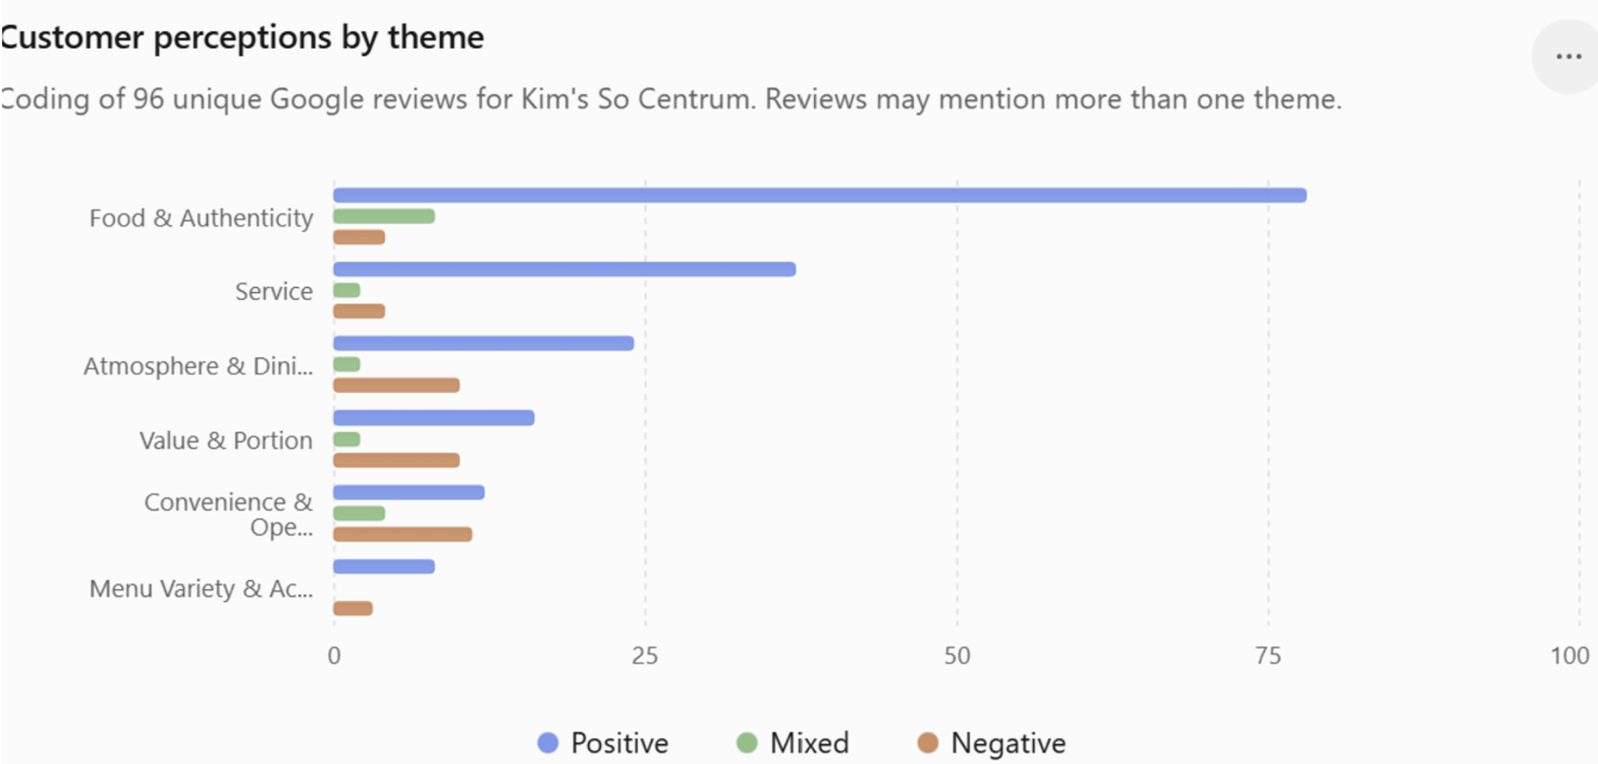
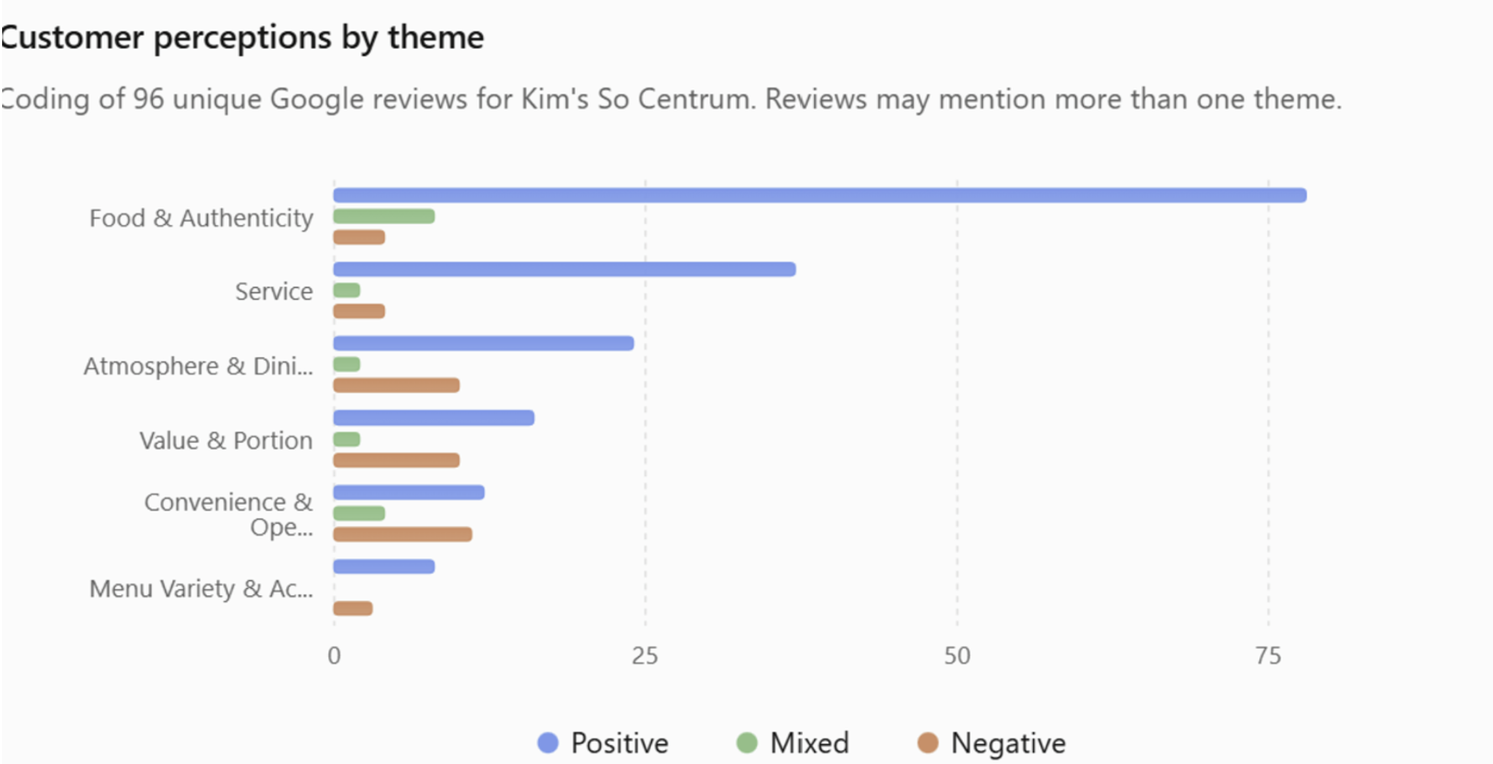
update: changes some features

diff --git a/src/data/content.js b/src/data/content.js
@@ -4,6 +4,12 @@ import cidKiosk from '../assets/cid-kiosk.png'
 import cidTeam from '../assets/cid-team-stand.png'
 import cidLogo from '../assets/cid-logo.png'
 import tiktokProfile from '../assets/tiktok-profile.jpg'
+import tiktokOverview from '../assets/tiktok-overview-365.jpg'
+import tiktokViewers from '../assets/tiktok-viewers.jpg'
+import tiktok60 from '../assets/tiktok-60-days.jpg'
+import tiktokTopPosts from '../assets/tiktok-top-posts.jpg'
+import cidCollaborations from '../assets/cid-collaborations.webp'
+import cidOpenDay from '../assets/cid-open-day.webp'
 import etWood from '../assets/et-wood.jpg'
 import etFire from '../assets/et-fire.jpg'
 import etEarth from '../assets/et-earth.jpg'
@@ -12,7 +18,9 @@ import etMetal from '../assets/et-metal.jpg'
 import etSketch from '../assets/et-sketch.jpg'
 import etPoster from '../assets/et-poster.jpg'
 import etMoodboard from '../assets/et-moodboard.jpg'
-import etResearch from '../assets/et-research.webp'
+import etFocusGroup from '../assets/et-focus-group.webp'
+import etAffinity from '../assets/et-affinity-map.webp'
+import etDesk from '../assets/et-desk-observation.webp'
 import vsnl1 from '../assets/vsnl-1.jpg'
 import vsnl2 from '../assets/vsnl-2.jpg'
 import vsnl3 from '../assets/vsnl-3.jpg'
@@ -36,7 +44,6 @@ export const profile = {
   lastName: 'Phan',
   status: 'Open to marketing & communication internships',
   portrait,
-  tag: { title: 'Digital marketing', text: '& brand storytelling' },
   email: 'phantaingan250511@gmail.com',
   phone: '+31 686 147 455',
   phoneRaw: '+31686147455',
@@ -73,7 +80,6 @@ export const about = {
     roles: ['Marketing', 'Communication', 'Social media', 'Content', 'Brand'],
     where: 'Anywhere in the Netherlands; hybrid or on-site',
     strengths: 'Research-led thinking, clear messaging, hands-on content work',
-    culture: 'Comfortable in international teams, working across Vietnamese and Dutch contexts',
   },
 }
 
@@ -96,7 +102,32 @@ export const cases = [
       { n: '3+ yrs', l: 'of ongoing, remote collaboration' },
     ],
     visual: [
-      { type: 'phone', src: tiktokProfile, alt: "Screenshot of the pet shop's TikTok profile with 6,825 followers and 499K likes" },
+      { type: 'phone', src: tiktokOverview, alt: 'TikTok Studio key metrics for Sep 30, 2025 – Sep 29, 2026: 810.9K post views, 11K profile views, 37.8K likes, 722 comments and 24.4K shares' },
+    ],
+    extra: [
+      {
+        type: 'metrics',
+        title: 'One year of results',
+        period: 'Sep 2025 – Sep 2026',
+        items: [
+          { n: '810.9K', l: 'post views' },
+          { n: '700.9K', l: 'total viewers' },
+          { n: '475.2K', l: 'new viewers' },
+          { n: '37.8K', l: 'likes' },
+          { n: '24.4K', l: 'shares' },
+        ],
+      },
+      {
+        type: 'screens',
+        title: 'Behind the numbers',
+        text: 'Most reach comes from the For You feed, and a recent spike shows how quickly the right story can travel: post views grew 744.8% over the last 60 days.',
+        images: [
+          { src: tiktokProfile, alt: "The pet shop's TikTok profile with 6,825 followers and 499K likes", caption: 'Channel profile · 6,825+ followers' },
+          { src: tiktokViewers, alt: 'Viewer insights: 700.9K total viewers, 475.2K new viewers; 66% female, 33% male', caption: 'Audience · 66% female viewers' },
+          { src: tiktok60, alt: 'Last 60 days: 227.9K post views, up 744.8%; 84.2% of traffic from the For You feed', caption: 'Last 60 days · +744.8% post views' },
+          { src: tiktokTopPosts, alt: 'Top posts by views over the last year, led by a post with 187K views', caption: 'Top post · 187K views' },
+        ],
+      },
     ],
   },
   {
@@ -126,6 +157,18 @@ export const cases = [
           { src: cidTeam, alt: 'The FutureFlow team at the Beyond the Blueprint stand with campaign posters and merchandise', variant: 'wide' },
           { src: cidKiosk, alt: 'Concept visual: an interactive CID information kiosk with a district map', variant: 'sq' },
           { src: cidLogo, alt: 'Beyond the Blueprint campaign logo by FutureFlow', variant: 'sq logo-fig' },
+        ],
+      },
+    ],
+    extra: [
+      {
+        type: 'figures',
+        title: 'Campaign touchpoints',
+        text: 'Beyond the Blueprint brings CID to life where people meet it: an open day invitation for residents and a collaboration moment that connects partners around the district.',
+        layout: 'cid',
+        images: [
+          { src: cidOpenDay, alt: 'Concept poster: CID Open Day at the Central Library, with a register-now QR code', caption: 'CID Open Day poster', className: 'contain white' },
+          { src: cidCollaborations, alt: 'Concept visual: partners gathered around a CID district model at a partner collaboration summit', caption: 'CID Collaborations' },
         ],
       },
     ],
@@ -161,10 +204,12 @@ export const cases = [
       {
         type: 'figures',
         title: 'From research to insight',
-        text: 'Consumer interviews, a focus group and on-site observation of tea shops fed into affinity mapping and a customer journey, from awareness and checking reviews to trying the drink and final thoughts.',
-        layout: 'single',
+        text: 'Desk research into boba culture and the European bubble tea market, plus observation of tea shops, set the context. A focus group and consumer interviews followed, and affinity mapping turned what we heard into themes for the persona and customer journey.',
+        layout: 'et-research',
         images: [
-          { src: etResearch, alt: 'Research collage: affinity-mapping sticky notes, observation photos of tea shops, the customer journey stages and the focus group session', caption: 'Affinity mapping, field observation, customer journey and focus group' },
+          { src: etDesk, alt: 'Desk research on boba culture and the European bubble tea market, alongside a Miro board of tea shop observation photos and notes', caption: 'Desk research & field observation' },
+          { src: etFocusGroup, alt: 'Focus group session with participants around a table', caption: 'Focus group · 10 participants' },
+          { src: etAffinity, alt: 'Wall of colour-coded sticky notes from affinity mapping', caption: 'Affinity mapping' },
         ],
       },
       {
@@ -174,9 +219,9 @@ export const cases = [
         items: [
           { name: 'Wood', src: etWood, notes: 'Schisandra berry · Green sencha · Lemongrass · Matcha' },
           { name: 'Fire', src: etFire, notes: 'Rose petal · Strawberry · Holy basil · Chai · Hibiscus' },
-          { name: 'Earth', src: etEarth },
+          { name: 'Earth', src: etEarth, notes: 'Oolong · Brown sugar · Mocha · Hojicha · Rooibos · Chamomile' },
           { name: 'Water', src: etWater, notes: 'Black sesame · Black tea · Black soy · Sea salt · Pu-erh' },
-          { name: 'Metal', src: etMetal },
+          { name: 'Metal', src: etMetal, notes: 'White tea · Cold brew · Earl Grey · Jasmine' },
         ],
       },
       {
@@ -196,12 +241,12 @@ export const cases = [
     kicker: 'Third project',
     meta: ['HR Committee Member · 2025–present', 'Vietnamese Student Association in the Netherlands'],
     title: 'VSNL: HR Committee & Career Fair',
-    sub: 'Coordination, scheduling and on-site event support',
+    sub: 'Coordination, scheduling and participant communication',
     brief: [
-      { k: 'Role', v: 'As part of the HR Committee, I support internal coordination and student activities, and work with the team on-site to help events run smoothly.' },
-      { k: 'Career Fair', v: 'As HR sub-lead, I coordinated around 25 participant time slots, prepared online forms, managed confirmation emails and supported on-site coordination.' },
-      { k: 'Takeaway', v: 'Keeping participant information and schedules organised', emphasis: true, after: ' while adapting to changes during a live event.' },
-      { k: 'Contributed', chips: ['HR support', 'Scheduling & coordination', 'Online forms', 'Email communication', 'On-site event support'] },
+      { k: 'Role', v: 'As part of the HR Committee, I support internal coordination and student activities within the association.' },
+      { k: 'Career Fair', v: 'As HR sub-lead for the online Career Fair, I coordinated around 25 participant time slots, prepared online forms and managed confirmation emails.' },
+      { k: 'Takeaway', v: 'Organising people, time and information behind the scenes,', emphasis: true, after: ' and keeping communication clear and consistent so every participant knew exactly when and where to join.' },
+      { k: 'Contributed', chips: ['HR support', 'Scheduling & coordination', 'Online forms', 'Email communication'] },
     ],
     stats: [
       { n: '~25', l: 'participant time slots coordinated' },
@@ -300,7 +345,7 @@ export const experience = [
   {
     when: '2025 – present',
     title: 'Vietnamese Student Association in the Netherlands — HR Committee',
-    text: 'Support internal coordination and student activities. As HR sub-lead for the Career Fair, coordinated around 25 participant time slots, prepared online forms, managed confirmation emails and supported on-site coordination.',
+    text: 'Support internal coordination and student activities. As HR sub-lead for the online Career Fair, coordinated around 25 participant time slots, prepared online forms and managed confirmation emails.',
   },
   {
     when: 'Feb 2025 – Jun 2025',
@@ -320,7 +365,7 @@ export const skills = [
   { icon: 'search', title: 'Research', items: ['Desk research', 'Interviews & surveys', 'Audience analysis', 'Competitor research', 'Review analysis', 'Keyword & search analysis'] },
   { icon: 'lines', title: 'Strategy & communication', items: ['Communication strategy', 'Key messaging', 'Concept development', 'Storytelling'] },
   { icon: 'phone', title: 'Digital & content', items: ['Content publishing', 'Content scheduling', 'Performance monitoring', 'Basic digital marketing'] },
-  { icon: 'tool', title: 'Tools', items: ['Microsoft Word', 'PowerPoint', 'Excel', 'Canva', 'Google Forms', 'Google Analytics', 'Ahrefs'] },
+  { icon: 'tool', title: 'Tools', items: ['Microsoft Word', 'PowerPoint', 'Excel', 'Canva', 'CapCut', 'Google Forms'] },
   { icon: 'globe', title: 'Languages', items: ['Vietnamese', 'English'] },
 ]
 

diff --git a/src/index.css b/src/index.css
@@ -359,3 +359,49 @@ footer .wrap{display:flex;flex-wrap:wrap;justify-content:space-between;gap:8px;p
   .reveal{opacity:1;transform:none;transition:none}
   .gallery img,.element-row img,.figures img,.cert-card img,.phone{transition:none}
 }
+
+/* TikTok: one-year metrics band */
+.metrics{position:relative;overflow:hidden;isolation:isolate;background:var(--oxblood);color:var(--on-accent);border-radius:24px;padding:clamp(22px,3vw,34px)}
+.metrics::after{content:"";position:absolute;z-index:-1;width:320px;height:320px;right:-110px;top:-150px;border-radius:50%;border:1px solid color-mix(in srgb,var(--on-accent) 22%,transparent);box-shadow:0 0 0 40px color-mix(in srgb,var(--on-accent) 4%,transparent)}
+.metrics-head{display:flex;flex-wrap:wrap;align-items:baseline;justify-content:space-between;gap:8px 20px;margin-bottom:22px}
+.metrics-head h4{font-family:var(--display);font-weight:400;text-transform:uppercase;font-size:clamp(26px,3vw,36px);line-height:1}
+.metrics-head .label{color:inherit;opacity:.8}
+.metrics ul{list-style:none;margin:0;padding:0;display:grid;grid-template-columns:repeat(5,minmax(0,1fr));gap:12px}
+.metrics li{background:color-mix(in srgb,var(--on-accent) 11%,transparent);border-radius:16px;padding:16px}
+.metrics b{display:block;font-family:var(--display);font-weight:400;font-size:clamp(30px,3.4vw,44px);line-height:1;font-variant-numeric:tabular-nums}
+.metrics span{display:block;font-size:13px;opacity:.85;margin-top:6px}
+
+/* TikTok: analytics screenshots */
+.screens{list-style:none;margin:0;padding:0;display:grid;grid-template-columns:repeat(4,minmax(0,1fr));gap:16px}
+.screens li{display:flex;flex-direction:column;gap:10px}
+.screens figure{margin:0;border-radius:22px;padding:6px;background:#1B1314;box-shadow:0 22px 40px -26px rgba(36,16,18,.6);transition:transform .35s}
+.screens li:nth-child(odd) figure{transform:rotate(-1.5deg)}
+.screens li:nth-child(even) figure{transform:rotate(1.5deg)}
+.screens li:hover figure{transform:none}
+.screens img{width:100%;aspect-ratio:1/2;object-fit:cover;object-position:top;border-radius:17px}
+.screens span{font-size:13px;font-weight:600;color:var(--rose-ink);text-align:center}
+
+/* Element Tea research: one tall image beside two stacked */
+.figures.et-research{grid-template-columns:minmax(0,1.3fr) minmax(0,1fr);grid-template-rows:auto auto}
+.figures.et-research figure:first-child{grid-row:1/3}
+.figures.et-research img{aspect-ratio:auto;height:100%;min-height:0}
+.figures.et-research figure:not(:first-child) img{aspect-ratio:3/2;height:auto}
+.figures.et-research figure:first-child img{flex:1 1 0;height:0;min-height:0;object-fit:cover;object-position:top left}
+
+/* CID touchpoints: poster and visual at equal heights */
+.figures.cid{grid-template-columns:minmax(0,.8fr) minmax(0,1.5fr)}
+.figures.cid img{aspect-ratio:auto;height:auto}
+.figures figure.white{background:#fff}
+
+@media (max-width:980px){
+  .metrics ul{grid-template-columns:repeat(3,minmax(0,1fr))}
+  .screens{grid-template-columns:repeat(2,minmax(0,1fr))}
+}
+@media (max-width:640px){
+  .figures.et-research{grid-template-columns:1fr}
+  .figures.et-research figure:first-child{grid-row:auto}
+  .figures.et-research figure:first-child img{flex:none;height:auto}
+  .figures.cid{grid-template-columns:1fr}
+  .metrics ul{grid-template-columns:repeat(2,minmax(0,1fr))}
+}
+@media (prefers-reduced-motion:reduce){.screens figure{transform:none;transition:none}}

diff --git a/src/components/CaseStudy.jsx b/src/components/CaseStudy.jsx
@@ -147,8 +147,40 @@ function Campaign({ block }) {
   )
 }
 
+function Metrics({ block }) {
+  return (
+    <div className="metrics">
+      <div className="metrics-head">
+        <h4>{block.title}</h4>
+        <span className="label">{block.period}</span>
+      </div>
+      <ul>
+        {block.items.map((m) => <li key={m.l}><b>{m.n}</b><span>{m.l}</span></li>)}
+      </ul>
+    </div>
+  )
+}
+
+function Screens({ block }) {
+  return (
+    <>
+      <ExtraHead block={block} />
+      <ul className="screens">
+        {block.images.map((img) => (
+          <li key={img.alt}>
+            <figure><img src={img.src} alt={img.alt} loading="lazy" /></figure>
+            <span>{img.caption}</span>
+          </li>
+        ))}
+      </ul>
+    </>
+  )
+}
+
 function Block({ block }) {
   switch (block.type) {
+    case 'metrics': return <Metrics block={block} />
+    case 'screens': return <Screens block={block} />
     case 'gallery': return <Gallery block={block} />
     case 'persona': return <Persona block={block} />
     case 'phone':

diff --git a/src/components/Hero.jsx b/src/components/Hero.jsx
@@ -17,7 +17,7 @@ export default function Hero() {
         <div className="hero-grid">
           <div>
             <span className="status"><i></i>{profile.status}</span>
-            <p className="hello">Hi, I'm {profile.firstName}</p>
+            <p className="hello">Hi, I'm</p>
             <h1 className="display name" aria-label={profile.fullName}>
               <span>{profile.firstName}</span>
               <span className="outline">{profile.lastName}</span>
@@ -33,7 +33,6 @@ export default function Hero() {
           </div>
           <div className="portrait">
             <figure><img src={profile.portrait} alt={'Portrait of ' + profile.shortName} /></figure>
-            <div className="tag-float"><strong>{profile.tag.title}</strong>{profile.tag.text}</div>
           </div>
         </div>
         <div className="facts">

diff --git a/src/components/About.jsx b/src/components/About.jsx
@@ -20,7 +20,6 @@ export default function About() {
               <dd><div className="chips">{seeking.roles.map((r) => <span className="chip" key={r}>{r}</span>)}</div></dd>
               <dt>Where</dt><dd>{seeking.where}</dd>
               <dt>Strengths</dt><dd>{seeking.strengths}</dd>
-              <dt>Culture</dt><dd>{seeking.culture}</dd>
             </dl>
           </aside>
         </Reveal>
